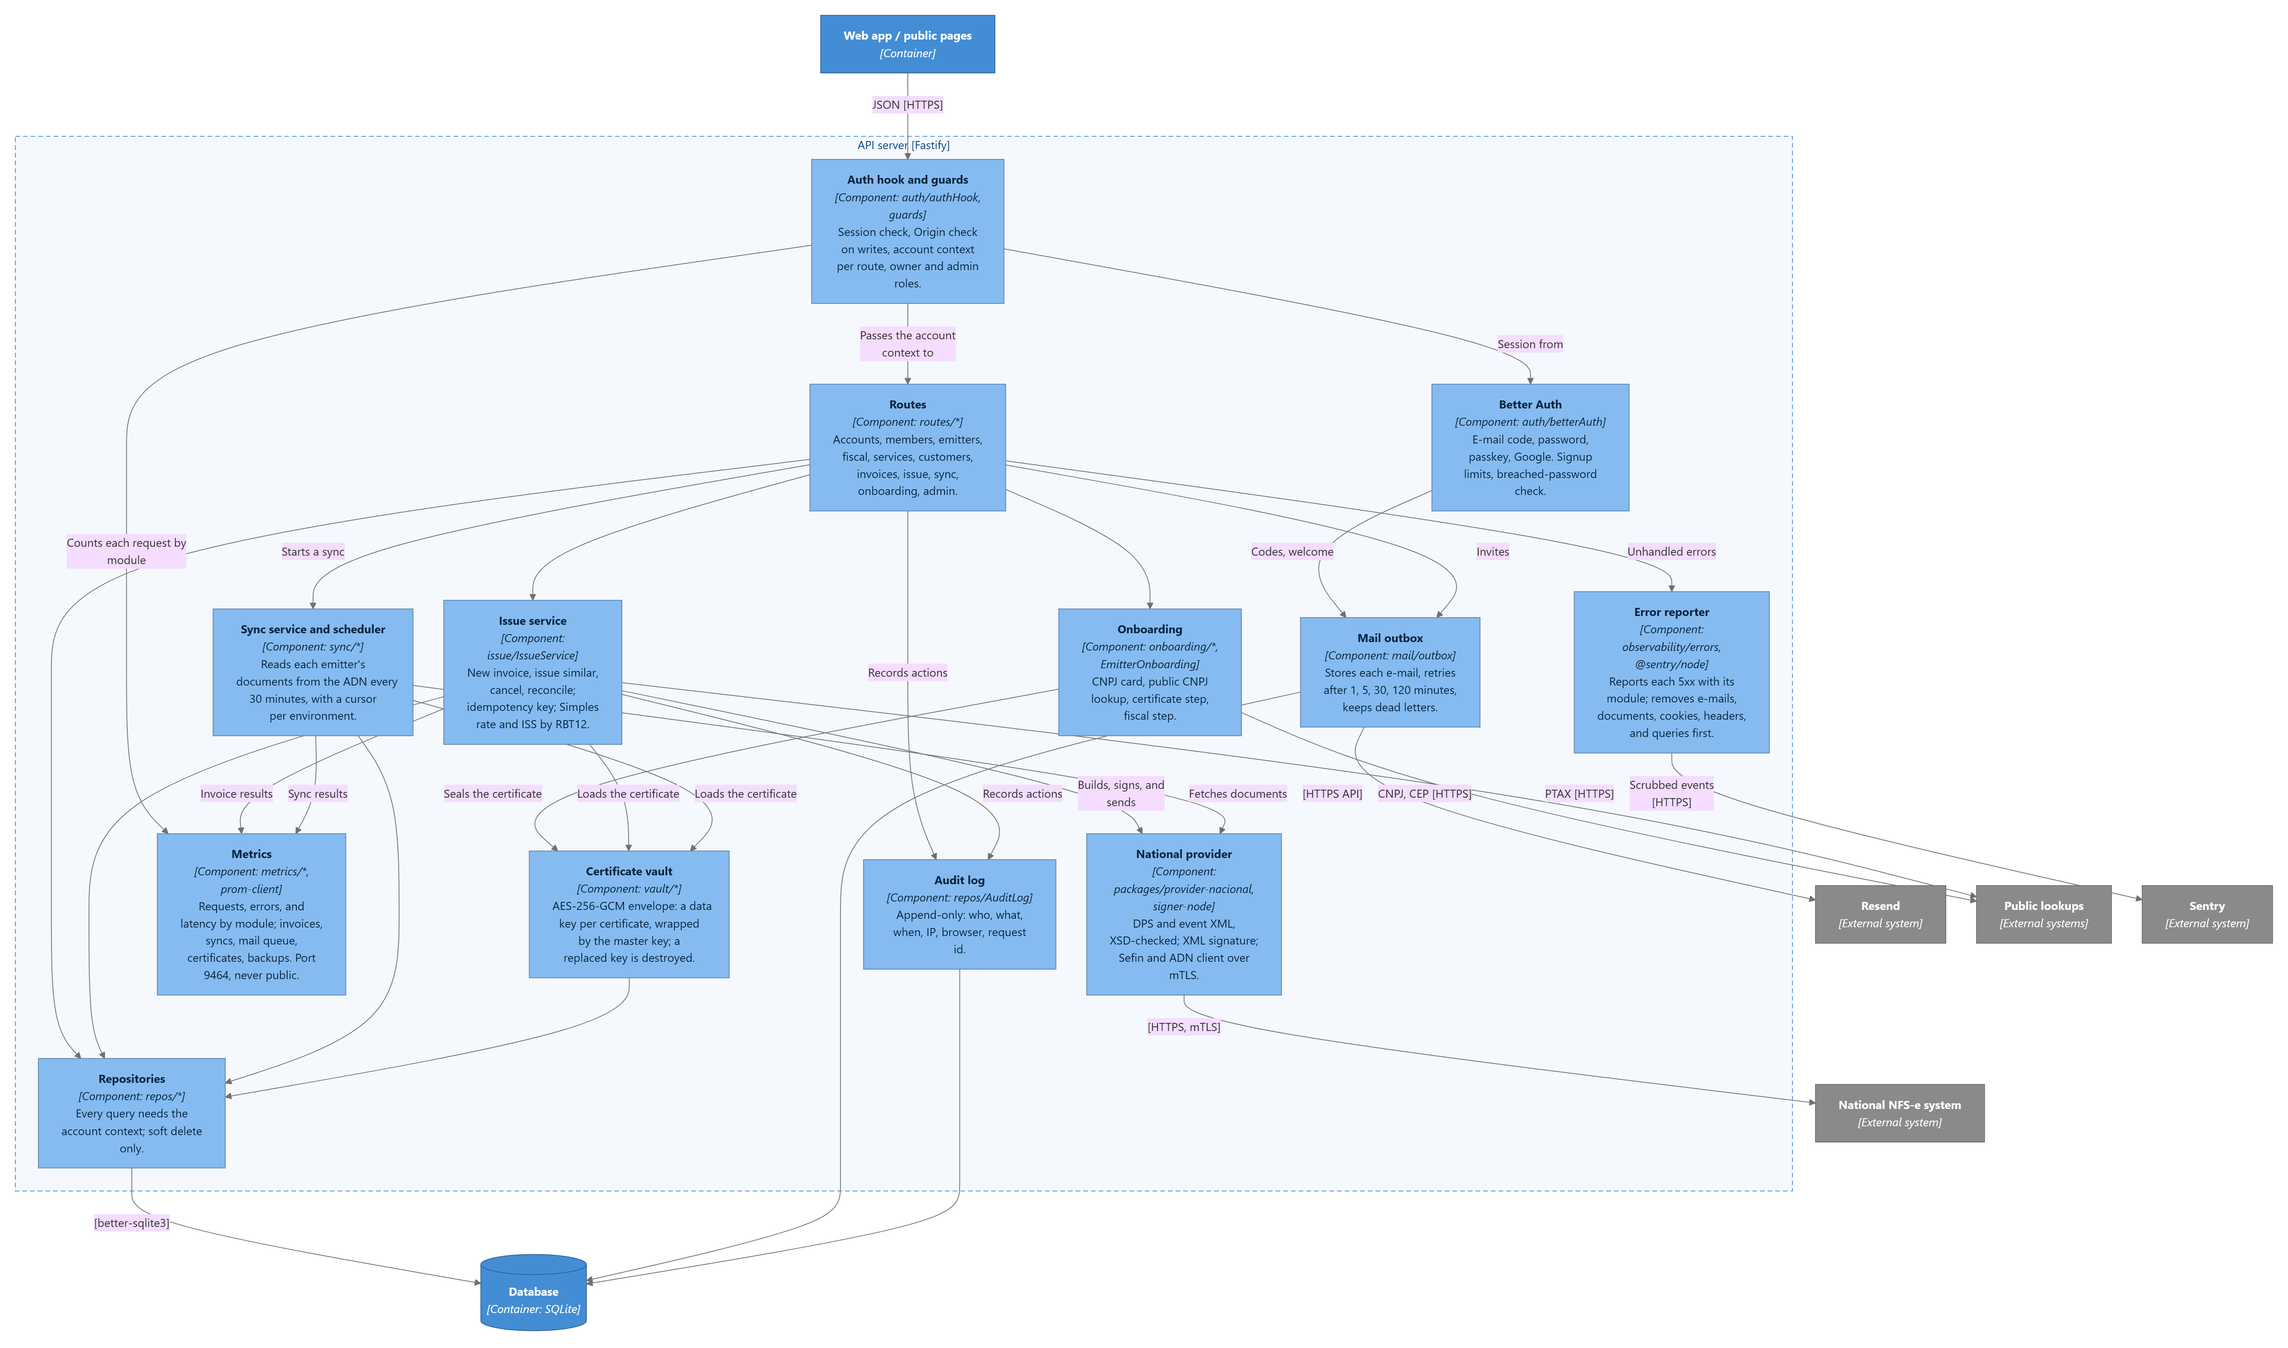
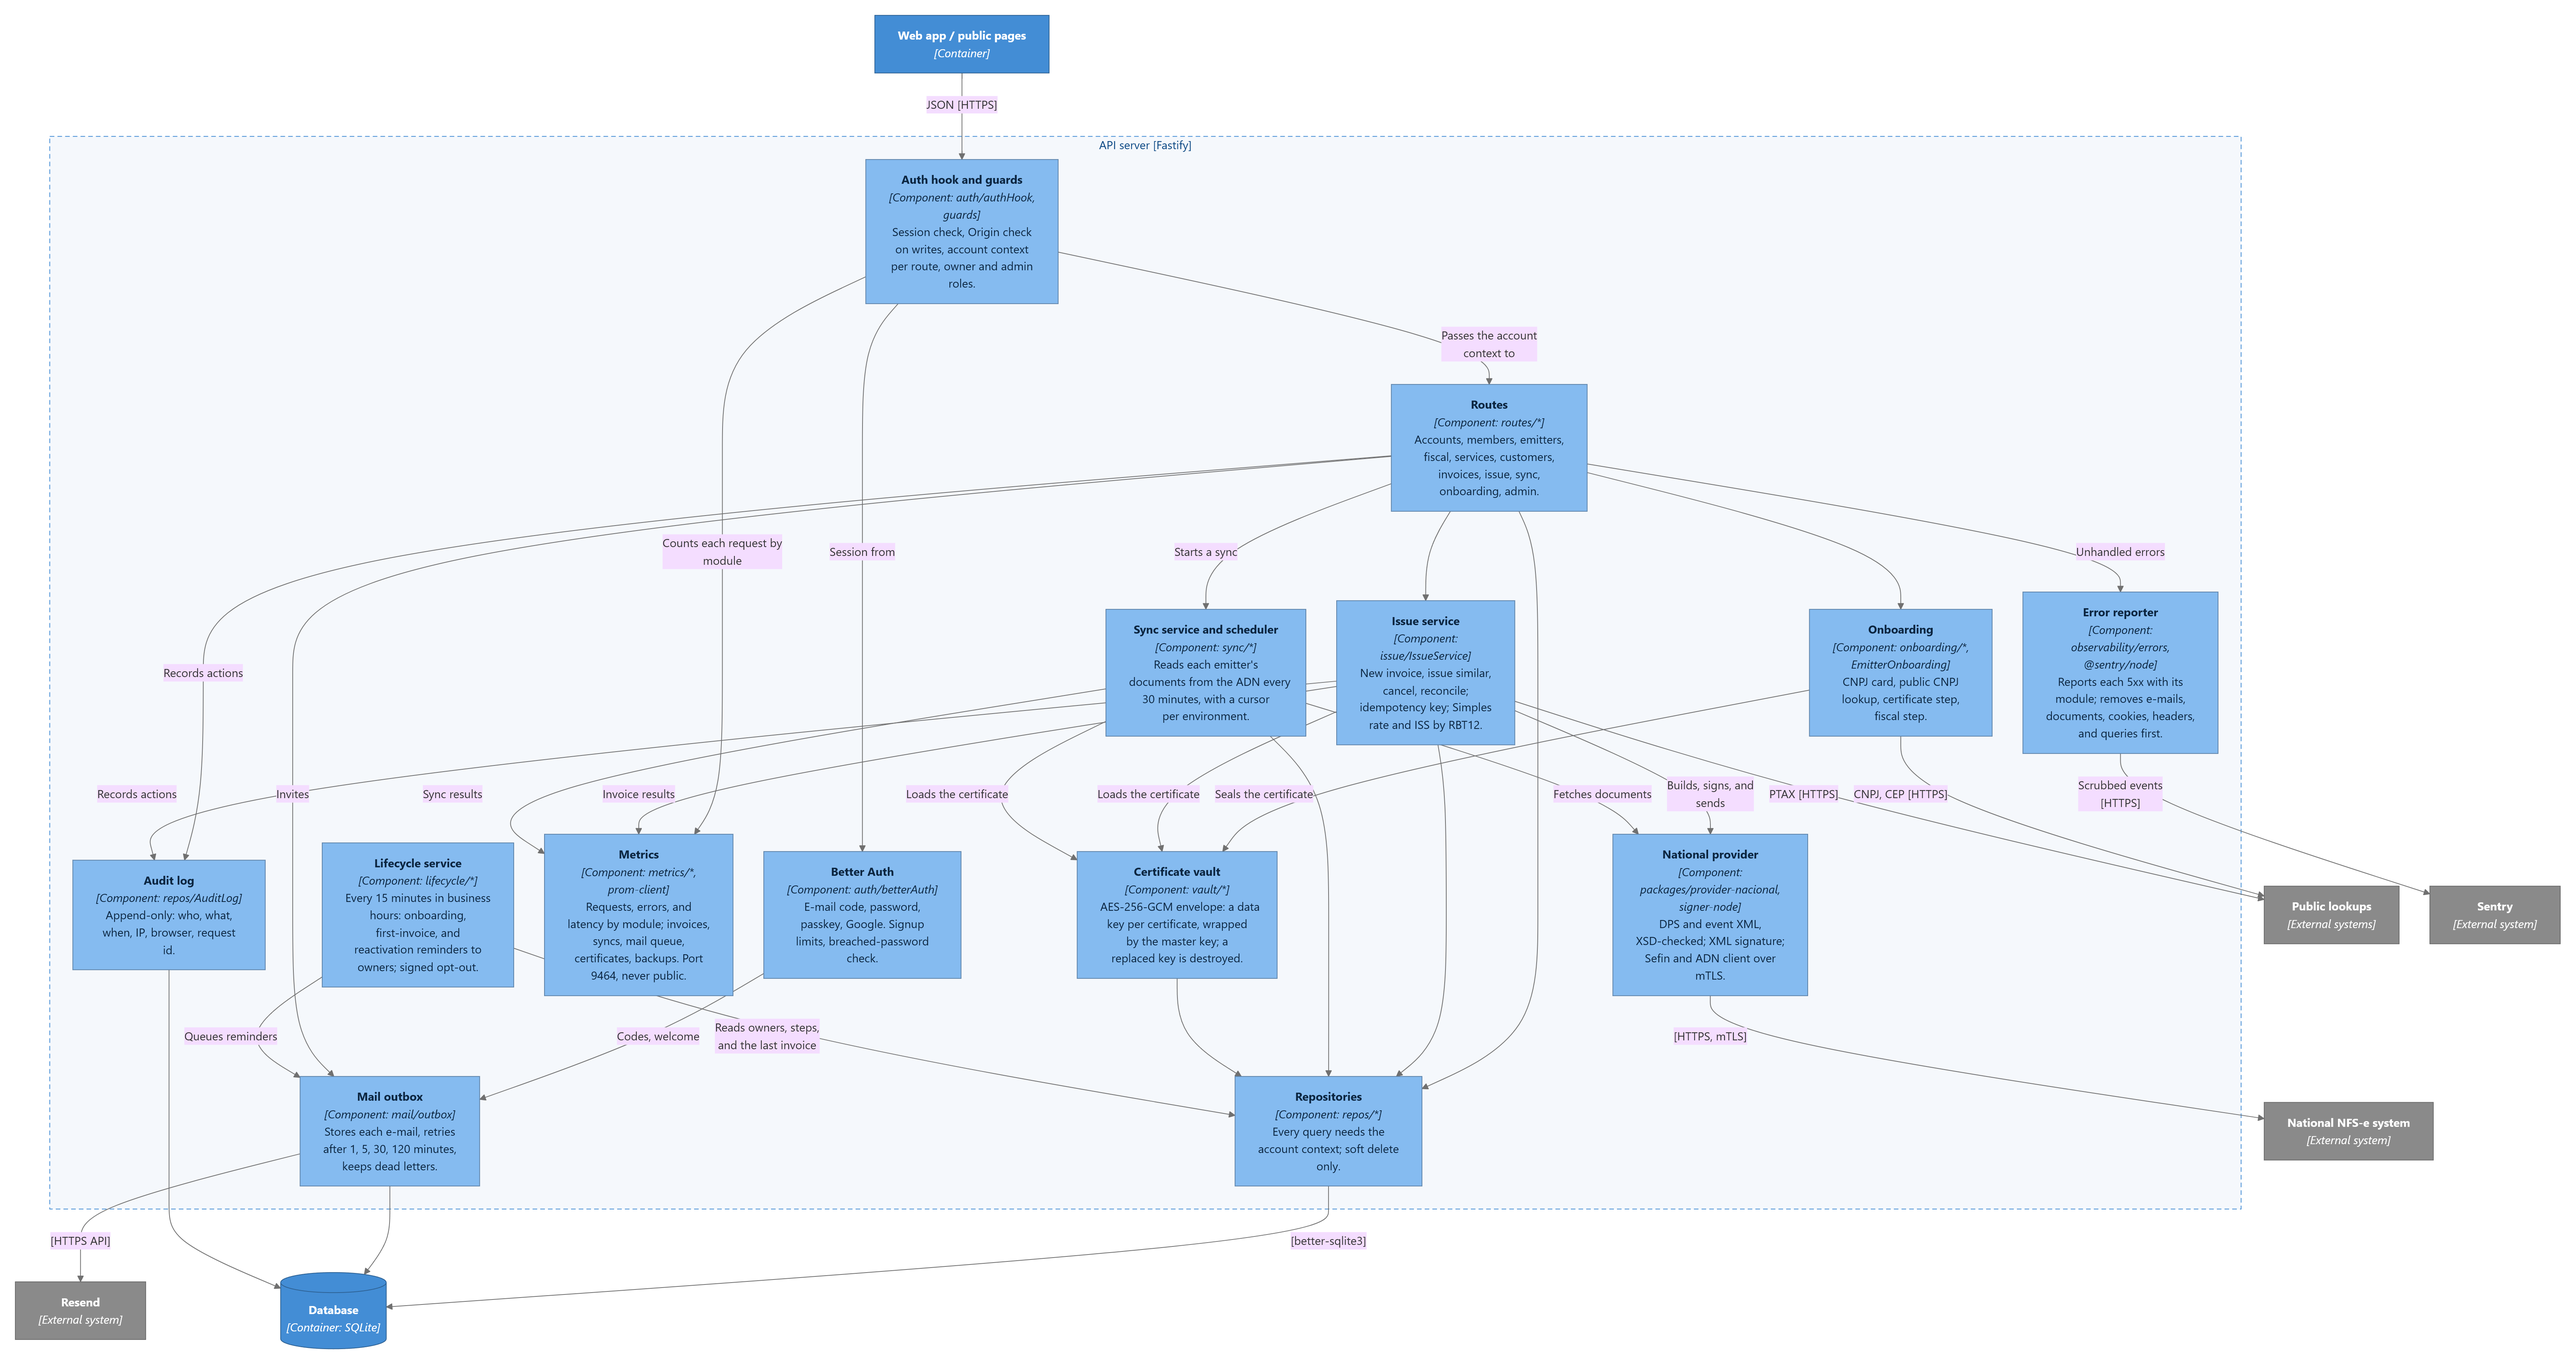
feat: lifecycle e-mails in the metrics, the panel, the diagram, and the docs

diff --git a/apps/server/src/repos/MetricsRepository.ts b/apps/server/src/repos/MetricsRepository.ts
@@ -2,7 +2,15 @@ import { existsSync, readdirSync, statSync } from 'node:fs';
 import { dirname, join } from 'node:path';
 import { and, count, eq } from 'drizzle-orm';
 import type { Database } from '../db/openDatabase';
-import { accounts, certificates, emitters, invoices, mailOutbox, users } from '../db/schema';
+import {
+  accounts,
+  certificates,
+  emitters,
+  invoices,
+  lifecycleEmails,
+  mailOutbox,
+  users,
+} from '../db/schema';
 import { notDeleted } from '../db/stamps';
 import type { MetricSources } from '../metrics/metrics';
 
@@ -65,6 +73,14 @@ export class MetricsRepository implements MetricSources {
       .from(invoices)
       .where(notDeleted(invoices))
       .groupBy(invoices.origin, invoices.status, invoices.environment)
+      .all();
+  }
+
+  lifecycleCounts() {
+    return this.db
+      .select({ phase: lifecycleEmails.phase, step: lifecycleEmails.step, count: count() })
+      .from(lifecycleEmails)
+      .groupBy(lifecycleEmails.phase, lifecycleEmails.step)
       .all();
   }
 

diff --git a/apps/server/src/metrics/metrics.ts b/apps/server/src/metrics/metrics.ts
@@ -23,6 +23,7 @@ export interface MetricSources {
   userCount(): number;
   emitterCounts(): { environment: string; count: number }[];
   invoiceCounts(): { origin: string; status: string; environment: string; count: number }[];
+  lifecycleCounts(): { phase: string; step: number; count: number }[];
 }
 
 export class Metrics {
@@ -142,6 +143,18 @@ export class Metrics {
             { origin: row.origin, status: row.status, environment: row.environment },
             row.count,
           );
+        }
+      },
+    });
+    new Gauge({
+      name: 'notaflow_lifecycle_emails',
+      help: 'Lifecycle reminders sent, by phase and step',
+      labelNames: ['phase', 'step'],
+      registers,
+      collect() {
+        this.reset();
+        for (const row of sources.lifecycleCounts()) {
+          this.set({ phase: row.phase, step: String(row.step) }, row.count);
         }
       },
     });

diff --git a/apps/server/src/metrics/metrics.test.ts b/apps/server/src/metrics/metrics.test.ts
@@ -141,3 +141,16 @@ test('the business totals count accounts, users, emitters, and invoices by origi
     /notaflow_invoices\{origin="app",status="cancelled",environment="producao"\} 1/,
   );
 });
+
+test('the lifecycle e-mails sent are counted by phase and step', async () => {
+  const user = seedUser(t.db, 'dono@example.com');
+  t.db.$client.prepare("INSERT INTO accounts (id, name, created_at) VALUES ('a-l', 'A', 1)").run();
+  t.db.$client
+    .prepare(
+      `INSERT INTO lifecycle_emails (user_id, account_id, phase, step, variant, anchor_at, sent_at)
+       VALUES (?, 'a-l', 'activation', 1, 'card', 1, 2)`,
+    )
+    .run(user);
+  const text = await t.app.metrics.render();
+  expect(text).toMatch(/notaflow_lifecycle_emails\{phase="activation",step="1"\} 1/);
+});

diff --git a/apps/server/src/metrics/server.test.ts b/apps/server/src/metrics/server.test.ts
@@ -10,6 +10,7 @@ const sources = {
   userCount: () => 0,
   emitterCounts: () => [],
   invoiceCounts: () => [],
+  lifecycleCounts: () => [],
 };
 let stop: (() => Promise<void>) | undefined;
 afterEach(async () => {

diff --git a/docs/ENGINEERING/ARCHITECTURE/OVERVIEW.md b/docs/ENGINEERING/ARCHITECTURE/OVERVIEW.md
@@ -20,9 +20,9 @@ The parts that run: the web app and the public pages in the browser, the tunnel,
 
 ## Server Components
 
-Inside the API server: every request passes the auth hook, which gives the routes an account context; the services use the vault, the national provider, and the repositories. Each request is counted by module in the metrics, and each 5xx goes to the error reporter.
+Inside the API server: every request passes the auth hook, which gives the routes an account context; the services use the vault, the national provider, and the repositories. Each request is counted by module in the metrics, and each 5xx goes to the error reporter. The lifecycle service sends the onboarding, first-invoice, and reactivation reminders through the mail outbox.
 
-![C4 components of the API server: auth hook, Better Auth, routes, onboarding, issue service, sync service, certificate vault, national provider, repositories, mail outbox, audit log, metrics, error reporter](diagrams/c4-3-server-components.png)
+![C4 components of the API server: auth hook, Better Auth, routes, onboarding, issue service, sync service, certificate vault, national provider, repositories, mail outbox, audit log, metrics, error reporter, lifecycle service](diagrams/c4-3-server-components.png)
 
 ## Deployment
 

diff --git a/docs/TUTORIALS/DEPLOY_ON_VM.md b/docs/TUTORIALS/DEPLOY_ON_VM.md
@@ -112,6 +112,17 @@ The app has its own login (Better Auth, stage 3b): e-mail code, Google, password
 
 Cloudflare Access protected the hostname until the stage 3b cut-over. After it, the hostname is public; the tunnel, the WAF, and Turnstile stay.
 
+## Lifecycle reminders
+
+The reminders of the [Lifecycle E-mails RFC](../ENGINEERING/RFCS/2026/10/RFC_LIFECYCLE_EMAILS.md) stay off until `LIFECYCLE_START_AT` is set in `/opt/notaflow/.env`. The terms promise 15 days of notice for this change, so the release goes in this order:
+
+1. Merge and deploy. The new terms ask every user to accept them.
+2. On the same day, queue the notice e-mail to every user, with the start date 15 days later:
+   `ssh vapulab "docker exec notaflow-app-1 node --import tsx apps/server/src/policyNotice.ts 2026-10-28"`
+3. Add `LIFECYCLE_START_AT=2026-10-28` (the same date) to `/opt/notaflow/.env`, then run `cd /opt/notaflow && docker compose up -d`.
+
+From that date, the service runs every 15 minutes, only on business days from 09:00 to 17:00 in Sao Paulo. The reminders sent are in the "5. Negócio" panel. A user stops them by the link in each e-mail or in the profile.
+
 ## E-mail outbox
 
 Every e-mail goes through the `mail_outbox` table before Resend.

diff --git a/docs/ENGINEERING/ARCHITECTURE/ONBOARDING.md b/docs/ENGINEERING/ARCHITECTURE/ONBOARDING.md
@@ -60,3 +60,7 @@ A finished account adds more emitters from Emitentes, through `POST /api/account
 
 - **First visit:** the tour runs when `users.tour_seen_at` is null. Closing or finishing it calls `POST /api/me/tour-seen`.
 - **Again:** "Ver o tour" in the header opens `/app?tour=1`.
+
+## Reminders
+
+An owner whose onboarding stops gets up to two reminder e-mails, on day 1 and day 4 after the account was created. The copy follows the step where the account stopped: the CNPJ card, the certificate, or the revenue. After onboarding ends (`accounts.onboarding_done_at`), an account with no production invoice issued by NotaFlow gets two more, on day 3 and day 7. The `LifecycleService` sends them, together with the reactivation e-mails; see the [Lifecycle E-mails RFC](../RFCS/2026/10/RFC_LIFECYCLE_EMAILS.md).
